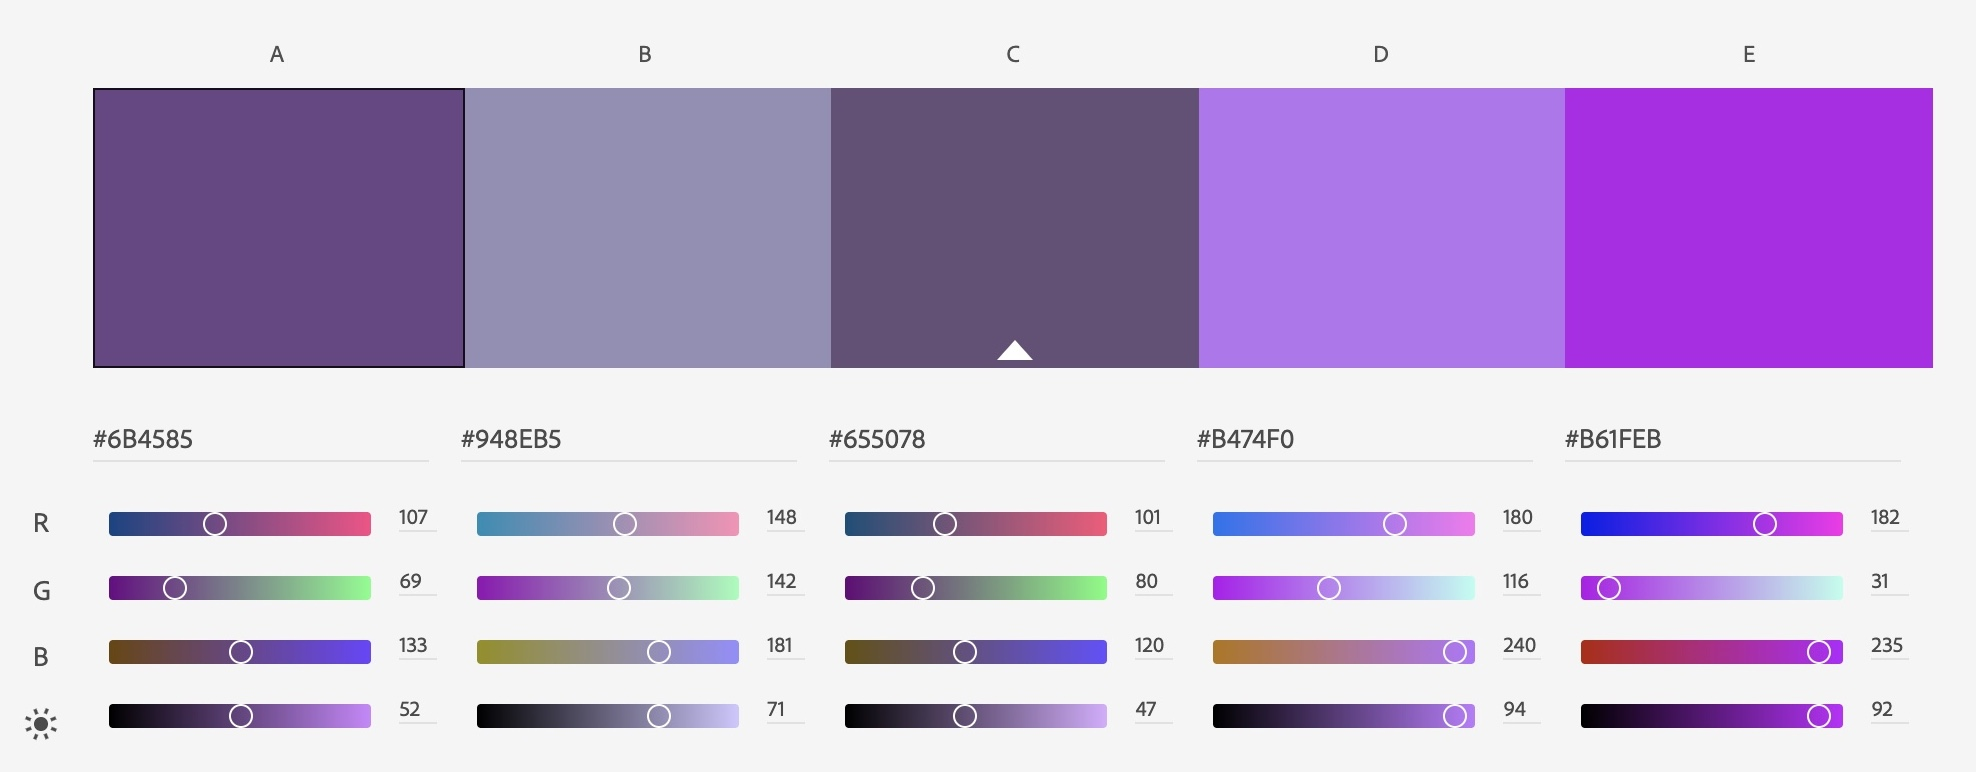
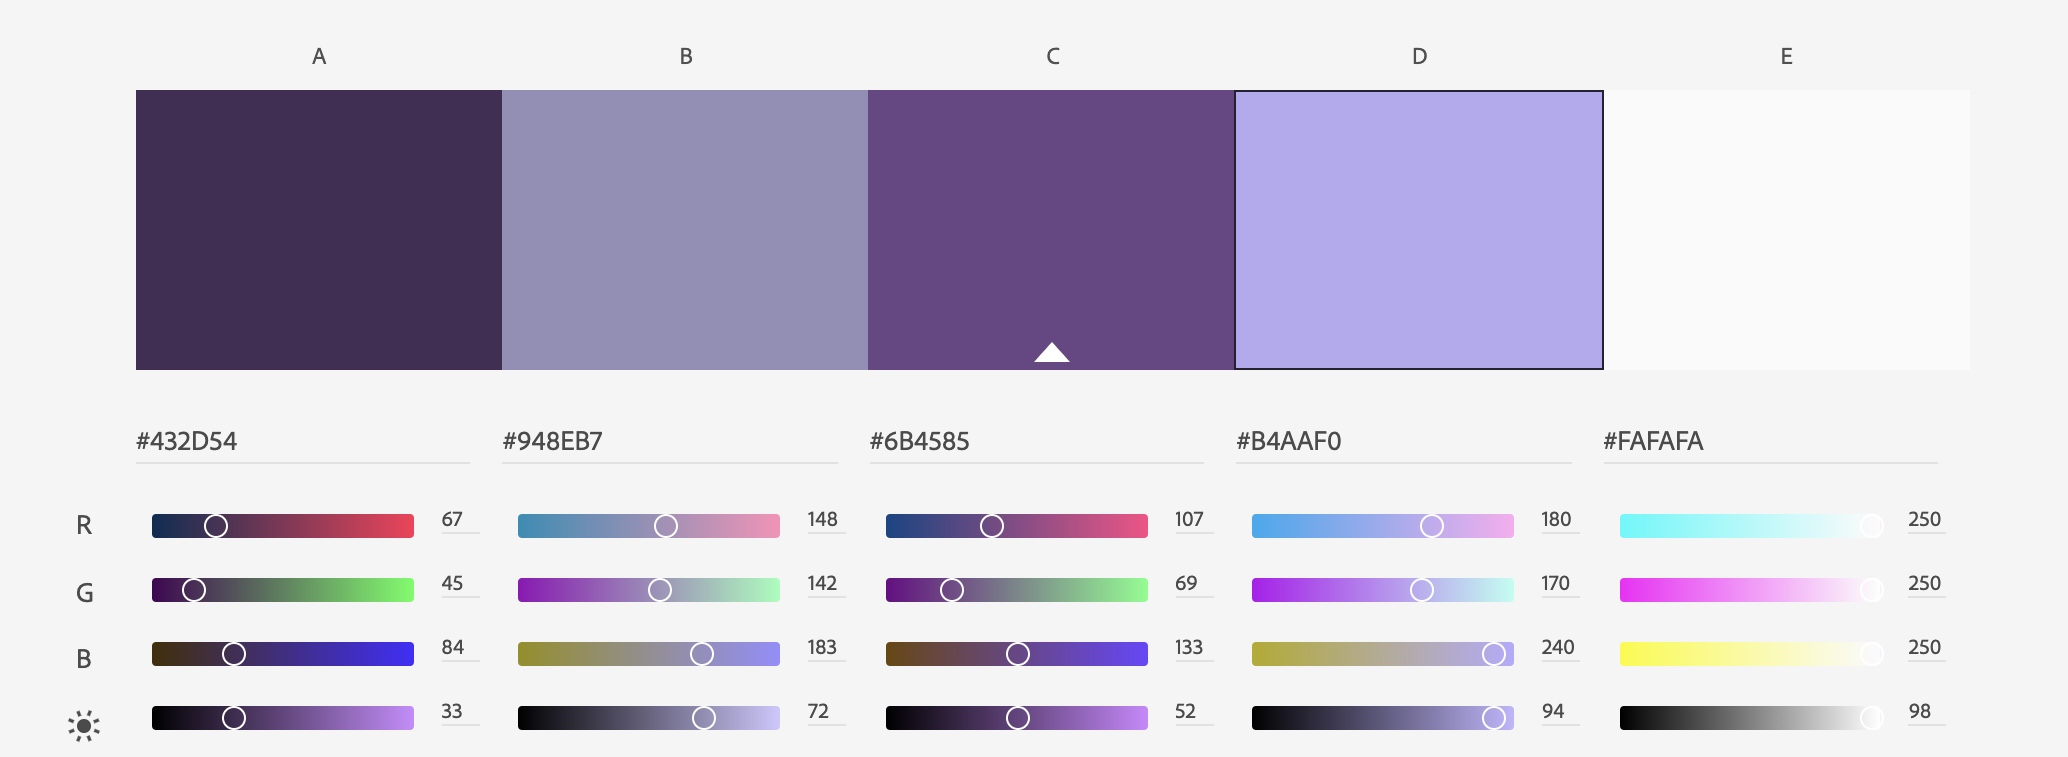
modified readme file typography + Color

diff --git a/assets/css/style.css b/assets/css/style.css
@@ -340,7 +340,8 @@ i.fa-download i:hover {
 }
 
 .social-media i {
-	font-size: 120%;
+	color: #777777;
+    font-size: 120%;
 	margin: 1%;
 	padding: 2%;
 }

diff --git a/README.md b/README.md
@@ -154,9 +154,13 @@ During this process I modified the website several times and it doesn't look qui
 For the typography I have used Roboto with a backup font of Sans-serif. It is a simple and easy to read font.
 The font is also easy to read on smaller devices.
 
-For choosing of the colors I used adobe color scheme.
+I used adobe color scheme for choosing the colors of my website.
 <img src="assets/documents/adobe-color.jpg">
+Body text: #432d54
 
+Title of the gym  #948eb7
+
+Btn hover #purple
 
 ## Testing
 ---
